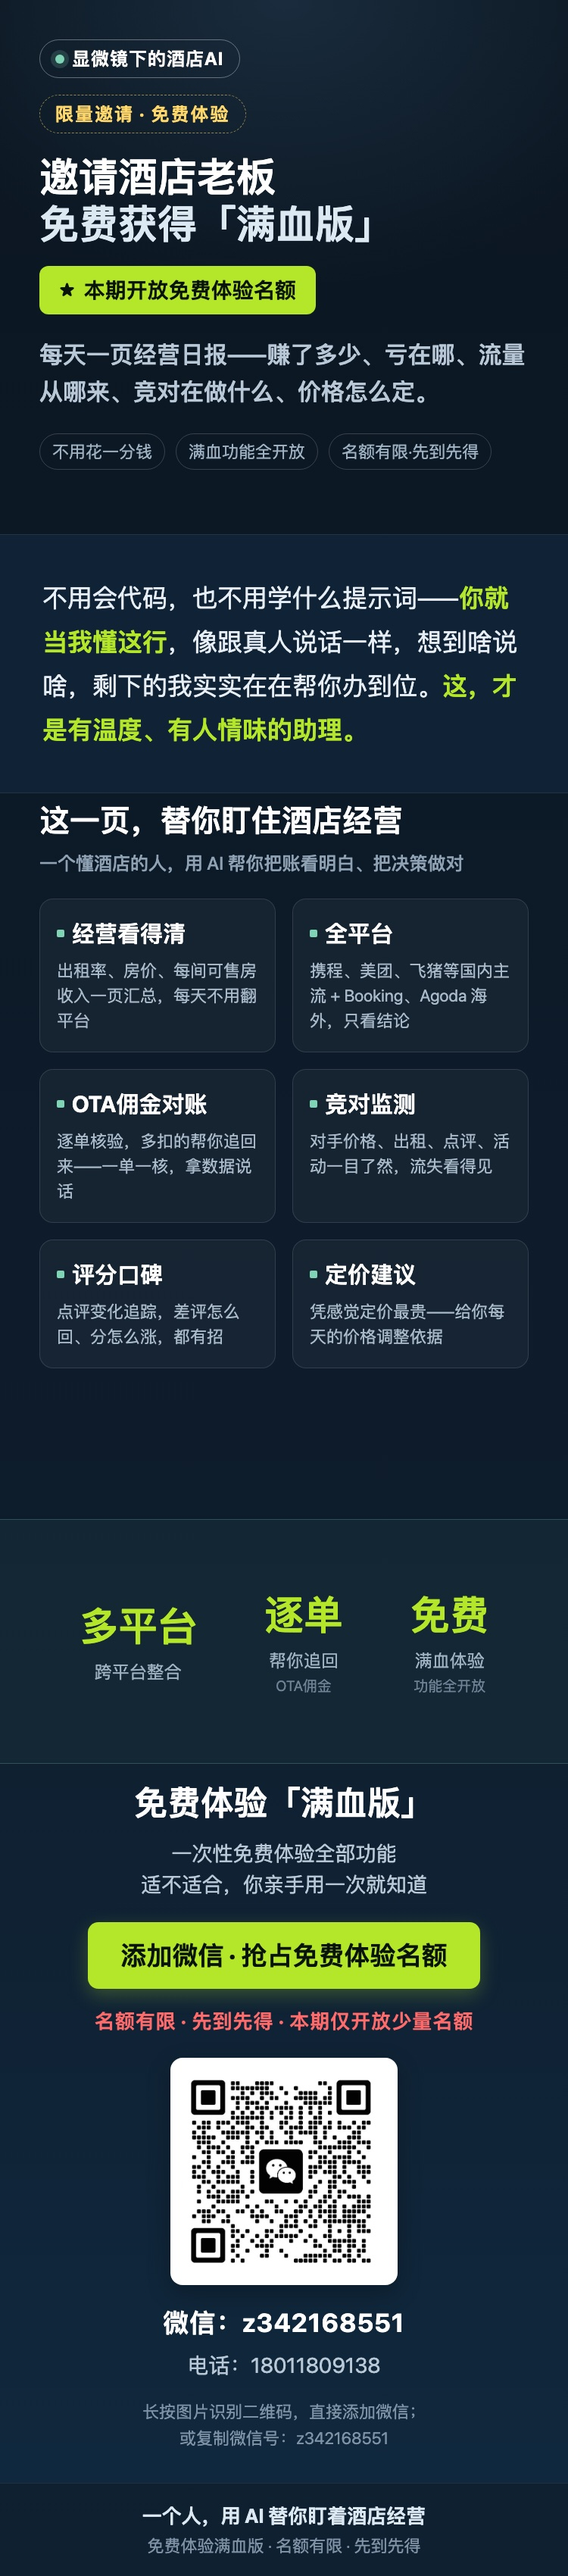
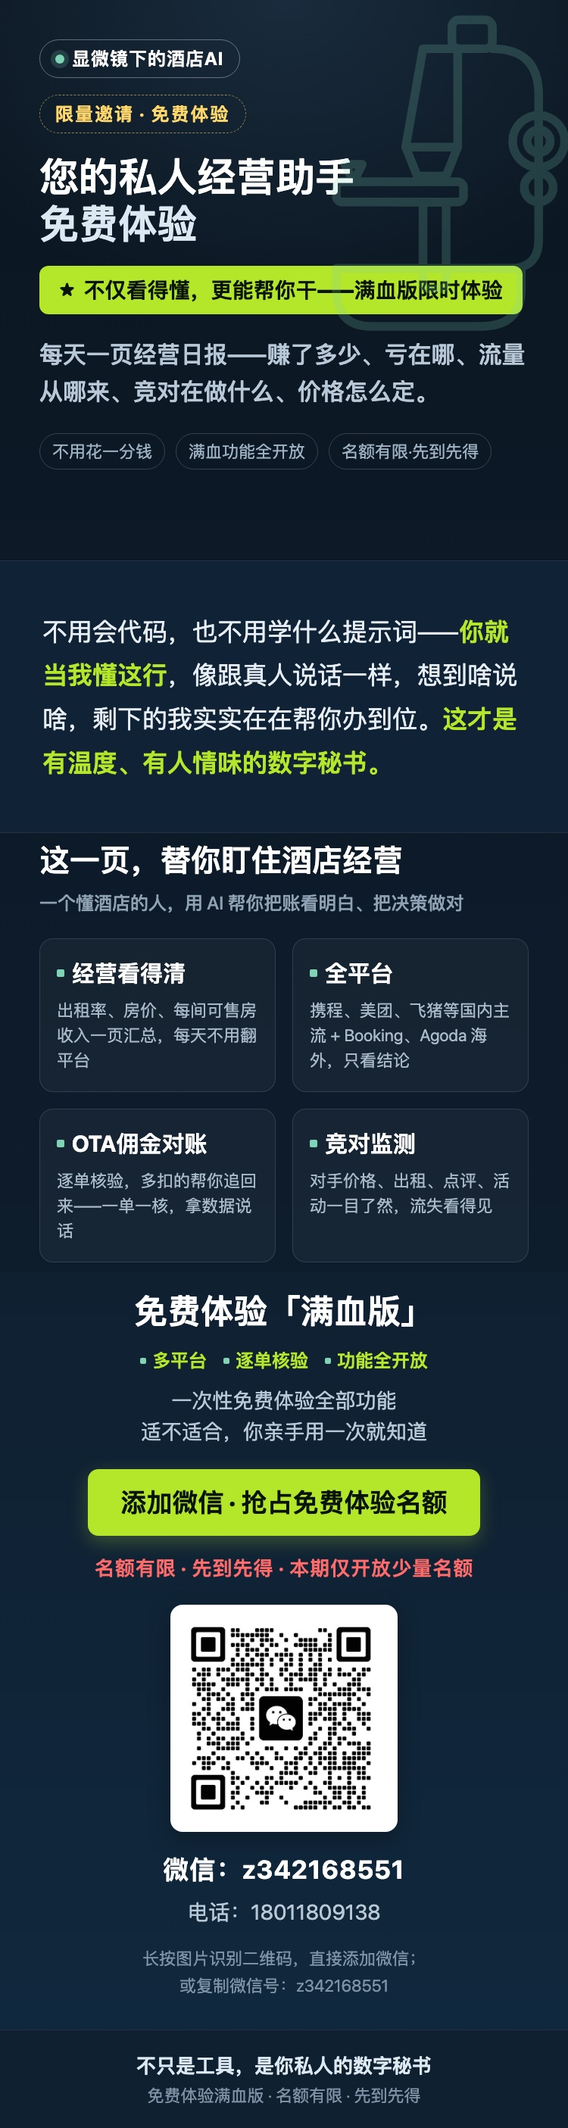
refine: v1 长图标题改'您的私人经营助手'、统一'数字秘书'、服务卡收紧至580px、加显微镜水印

Changed region(s): [[0.0613, 0.0, 1.0, 0.9907], [0.736, 0.5573, 0.8587, 0.5883]]

diff --git a/wechat-poster.html b/wechat-poster.html
@@ -6,7 +6,7 @@
 <title>显微镜下的酒店AI · 长图</title>
 <style>
   * { margin:0; padding:0; box-sizing:border-box; }
-  html, body { width:750px; height:3400px; overflow:hidden; }
+  html, body { width:750px; height:2810px; overflow:hidden; }
   body {
     font-family:-apple-system,BlinkMacSystemFont,"PingFang SC","Microsoft YaHei",sans-serif;
     background:linear-gradient(180deg,#0b1620 0%,#0d1b2a 45%,#0f2031 100%);
@@ -31,6 +31,8 @@
   .trust { margin-top:30px; display:flex; gap:14px; flex-wrap:wrap; }
   .trust span { font-size:22px; color:#9fb2c2; border:1px solid rgba(255,255,255,.18);
     padding:8px 16px; border-radius:999px; }
+  /* ---------- microscope watermark ---------- */
+  .watermark { position:absolute; right:-30px; top:10px; opacity:.20; pointer-events:none; }
   /* ---------- idea ---------- */
   .idea { height:360px; display:flex; align-items:center; justify-content:center; padding:0 56px;
     background:#0f2236; border-top:1px solid rgba(255,255,255,.08); border-bottom:1px solid rgba(255,255,255,.08); }
@@ -45,18 +47,14 @@
   .card .t { font-size:30px; font-weight:700; color:#fff; display:flex; align-items:center; gap:10px; }
   .card .t::before { content:""; width:10px; height:10px; background:#7fd4b6; border-radius:2px; }
   .card p { font-size:22px; color:#a9bac9; line-height:1.5; margin-top:12px; }
-  .services { height:1010px; }
-  /* ---------- stats ---------- */
-  .stats { height:340px; display:flex; align-items:center; justify-content:space-around; padding:0 60px;
-    background:rgba(127,212,182,.06); border-top:1px solid rgba(127,212,182,.25); border-bottom:1px solid rgba(127,212,182,.25); }
-  .stat { text-align:center; }
-  .stat .v { font-size:52px; font-weight:800; color:#b4e62a; }
-  .stat .l { font-size:23px; color:#9fb2c2; margin-top:8px; }
-  .stat .s { font-size:19px; color:#6f8396; margin-top:4px; }
+  .services { height:580px; }
   /* ---------- contact ---------- */
   .contact { flex:1; display:flex; flex-direction:column; align-items:center; justify-content:center;
     padding:20px 52px 40px; background:linear-gradient(180deg,#0f2031 0%,#10283d 100%); }
   .c-title { font-size:44px; font-weight:800; color:#fff; }
+  .c-sell { margin-top:18px; display:flex; align-items:center; gap:22px; flex-wrap:wrap; justify-content:center; }
+  .c-sell span { font-size:24px; font-weight:700; color:#b4e62a; display:inline-flex; align-items:center; gap:8px; }
+  .c-sell span::before { content:""; width:8px; height:8px; background:#7fd4b6; border-radius:2px; }
   .c-sub { font-size:27px; color:#b8c8d6; margin-top:16px; text-align:center; line-height:1.5; }
   .btn { margin-top:30px; font-size:34px; font-weight:800; color:#08130a; background:#b4e62a;
     padding:20px 44px; border-radius:14px; box-shadow:0 8px 24px rgba(180,230,42,.25); }
@@ -79,13 +77,39 @@
   <div class="hero">
     <span class="badge">显微镜下的酒店AI</span>
     <span class="limited-top">限量邀请 · 免费体验</span>
-    <h1>邀请酒店老板<br><span class="sec">免费获得「满血版」</span></h1>
-    <span class="free">本期开放免费体验名额</span>
+    <h1>您的私人经营助手<br><span class="sec">免费体验</span></h1>
+    <span class="free">不仅看得懂，更能帮你干——满血版限时体验</span>
     <p class="tsub">每天一页经营日报——赚了多少、亏在哪、流量从哪来、竞对在做什么、价格怎么定。</p>
     <div class="trust"><span>不用花一分钱</span><span>满血功能全开放</span><span>名额有限·先到先得</span></div>
+    <svg class="watermark" width="420" height="460" viewBox="0 0 110 120" fill="none" stroke="#7fd4b6" stroke-width="3" stroke-linecap="round" stroke-linejoin="round" xmlns="http://www.w3.org/2000/svg">
+      <!-- 目镜（顶端，斜向） -->
+      <rect x="62" y="4" width="14" height="10" rx="2.5"/>
+      <!-- 镜筒（主体，略向左倾） -->
+      <path d="M64 14 L52 14 L46 48 L64 48 Z"/>
+      <!-- 物镜（底部收窄） -->
+      <path d="M46 48 L50 58 L60 58 L64 48"/>
+      <!-- 镜臂（C形弯弧，从镜筒右上弯到右下再到底座） -->
+      <path d="M76 14 Q92 14 92 30 L92 80 Q92 90 82 90 L74 90"/>
+      <!-- 粗调旋钮（大圆） -->
+      <circle cx="92" cy="46" r="9"/>
+      <circle cx="92" cy="46" r="4"/>
+      <!-- 细调旋钮（小圆，紧贴大圆） -->
+      <circle cx="92" cy="62" r="5"/>
+      <!-- 载物台（水平板，向左伸出） -->
+      <rect x="22" y="60" width="44" height="7" rx="2"/>
+      <!-- 载物台夹片 -->
+      <path d="M28 60 L25 54 L31 54 Z"/>
+      <!-- 光源孔 -->
+      <line x1="42" y1="67" x2="58" y2="67"/>
+      <!-- 镜柱 -->
+      <rect x="52" y="67" width="8" height="30" rx="2"/>
+      <!-- 底座（弧形马蹄） -->
+      <path d="M22 97 Q22 110 34 110 L72 110 Q86 110 86 97 L86 90 L22 90 Z"/>
+      <line x1="22" y1="90" x2="86" y2="90"/>
+    </svg>
   </div>
 
-  <div class="idea"><p>不用会代码，也不用学什么提示词——<span class="hl">你就当我懂这行</span>，像跟真人说话一样，想到啥说啥，剩下的我实实在在帮你办到位。<span class="hl">这，才是有温度、有人情味的助理。</span></p></div>
+  <div class="idea"><p>不用会代码，也不用学什么提示词——<span class="hl">你就当我懂这行</span>，像跟真人说话一样，想到啥说啥，剩下的我实实在在帮你办到位。<span class="hl">这才是有温度、有人情味的数字秘书。</span></p></div>
 
   <div class="sect services">
     <div class="shead">这一页，替你盯住酒店经营<small>一个懂酒店的人，用 AI 帮你把账看明白、把决策做对</small></div>
@@ -99,14 +123,9 @@
     </div>
   </div>
 
-  <div class="stats">
-    <div class="stat"><div class="v">多平台</div><div class="l">跨平台整合</div></div>
-    <div class="stat"><div class="v">逐单</div><div class="l">帮你追回</div><div class="s">OTA佣金</div></div>
-    <div class="stat"><div class="v">免费</div><div class="l">满血体验</div><div class="s">功能全开放</div></div>
-  </div>
-
   <div class="contact">
     <div class="c-title">免费体验「满血版」</div>
+    <div class="c-sell"><span>多平台</span><span>逐单核验</span><span>功能全开放</span></div>
     <div class="c-sub">一次性免费体验全部功能<br>适不适合，你亲手用一次就知道</div>
     <div class="btn">添加微信 · 抢占免费体验名额</div>
     <div class="limit">名额有限 · 先到先得 · 本期仅开放少量名额</div>
@@ -115,6 +134,6 @@
     <div class="hint">长按图片识别二维码，直接添加微信；<br>或复制微信号：z342168551</div>
   </div>
 
-  <div class="foot"><div class="f1">一个人，用 AI 替你盯着酒店经营</div><div class="f2">免费体验满血版 · 名额有限 · 先到先得</div></div>
+  <div class="foot"><div class="f1">不只是工具，是你私人的数字秘书</div><div class="f2">免费体验满血版 · 名额有限 · 先到先得</div></div>
 </body>
 </html>
